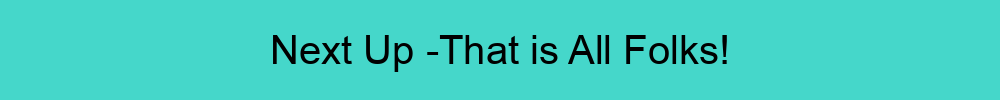
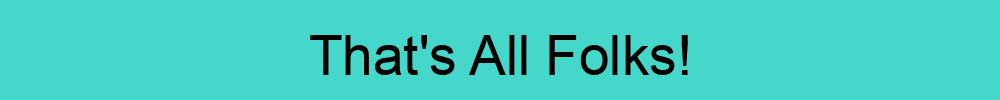
Update to Unreal 5.2

Changed region(s): [[0.248, 0.33, 0.744, 0.75]]

diff --git a/class-inheritance/README.md b/class-inheritance/README.md
@@ -153,6 +153,8 @@ That's it for this walk through. Thanks for following through to the end.
 
 ![](../images/line.png)
 
+<!-- <img src="https://via.placeholder.com/1000x100/45D7CA/000000/?text=That's All Folks"> -->
+
 ![the end](images/banner.png)
 
 ![](../images/line.png)
